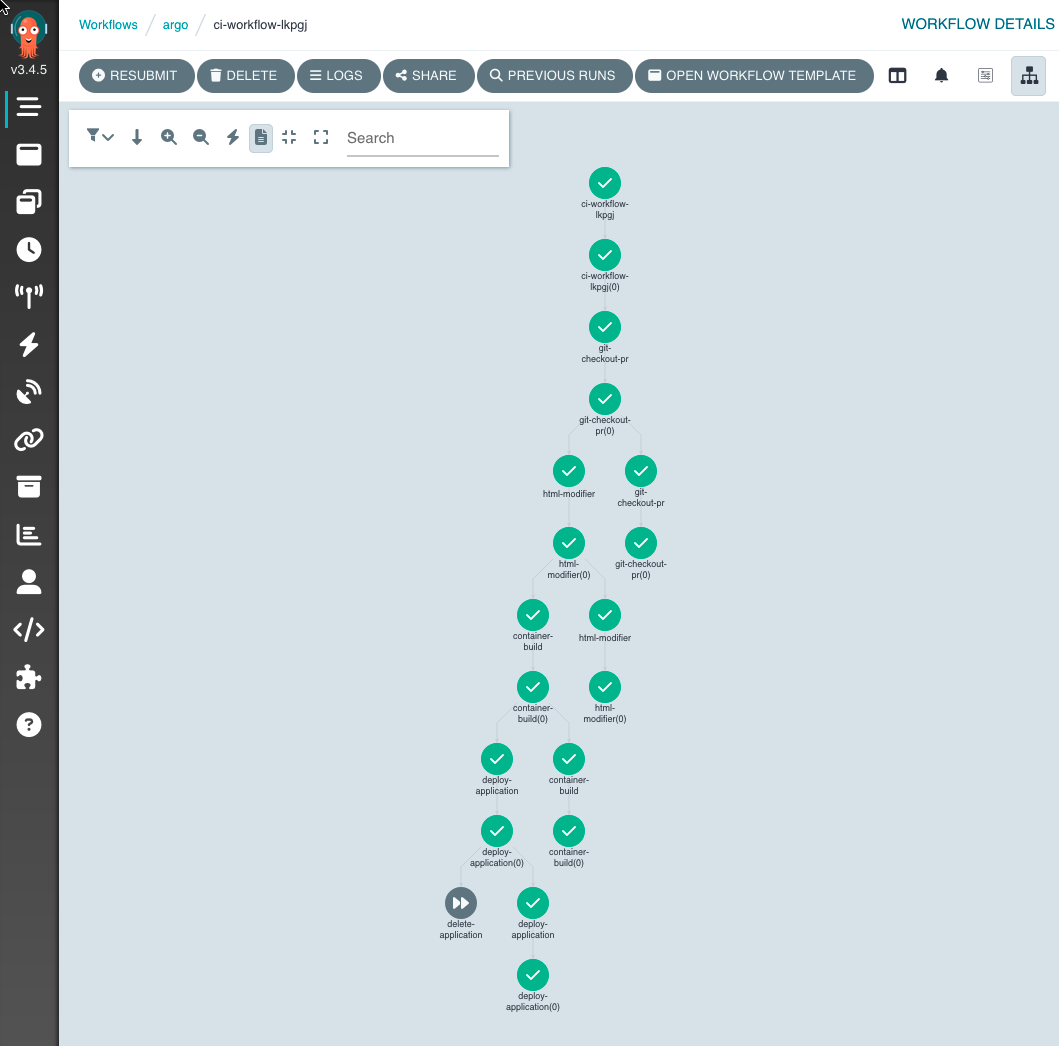
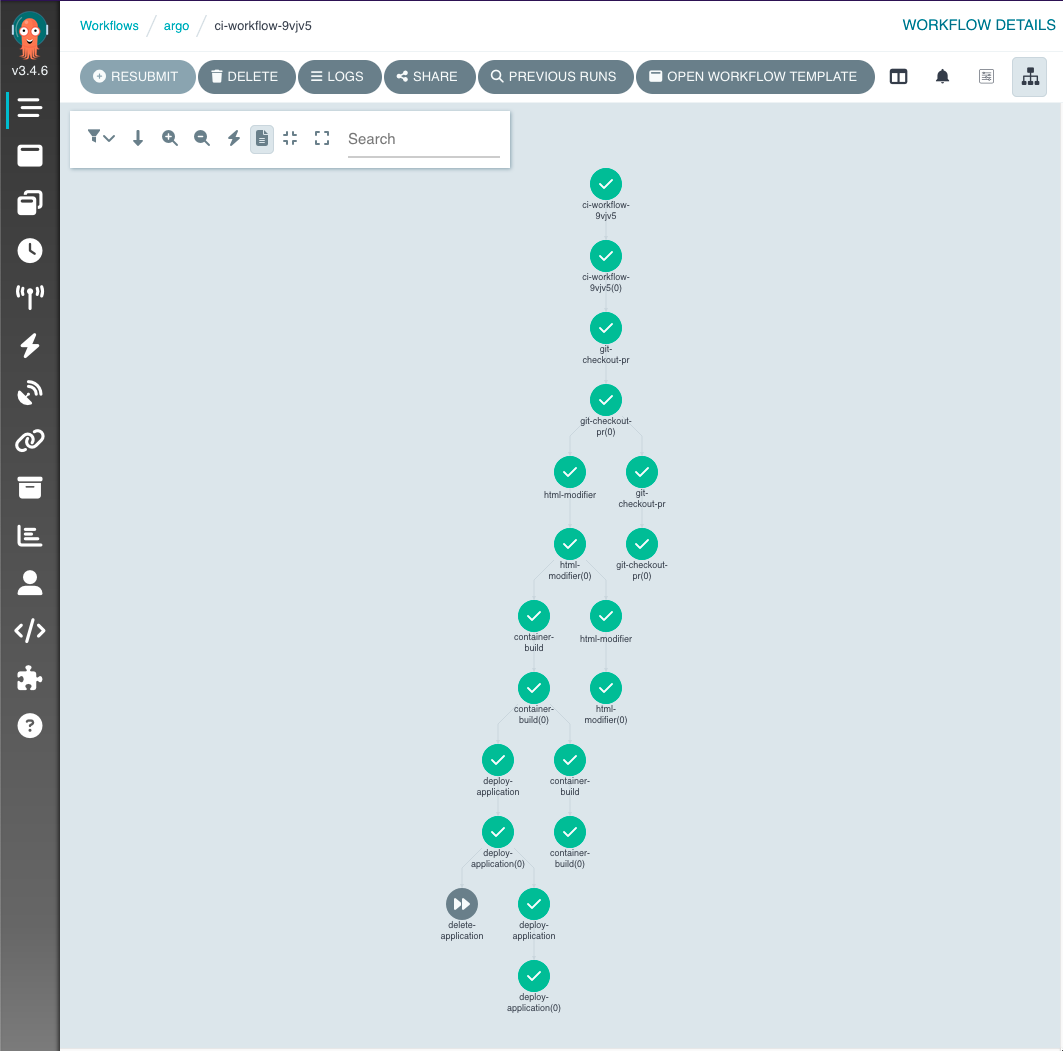
Modify screenshots for workflows 3.4.6

diff --git a/README.md b/README.md
@@ -6,6 +6,8 @@ A basic CI leveraging [Argo Workflows](https://argoproj.github.io/argo-workflows
 
 ![CI Workflow Screenshot](assets/images/workflow-screenshot.png)
 
+![Deployed Application Screenshot](assets/images/deployed-app-screenshot.png)
+
 ## The Workflow...
 * pulls a repo from git. Specifically pulling a branch based on a pull request;
 * merges the target branch into it;
